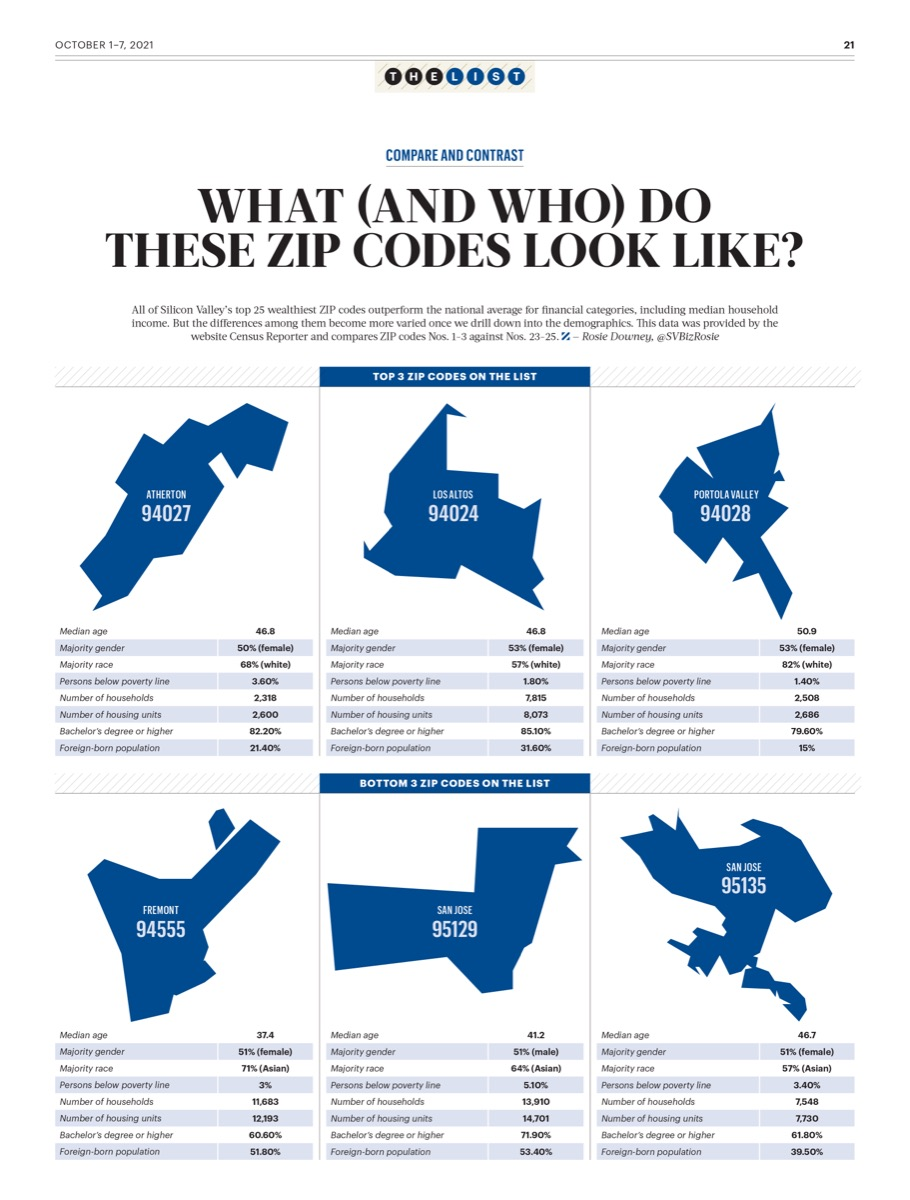
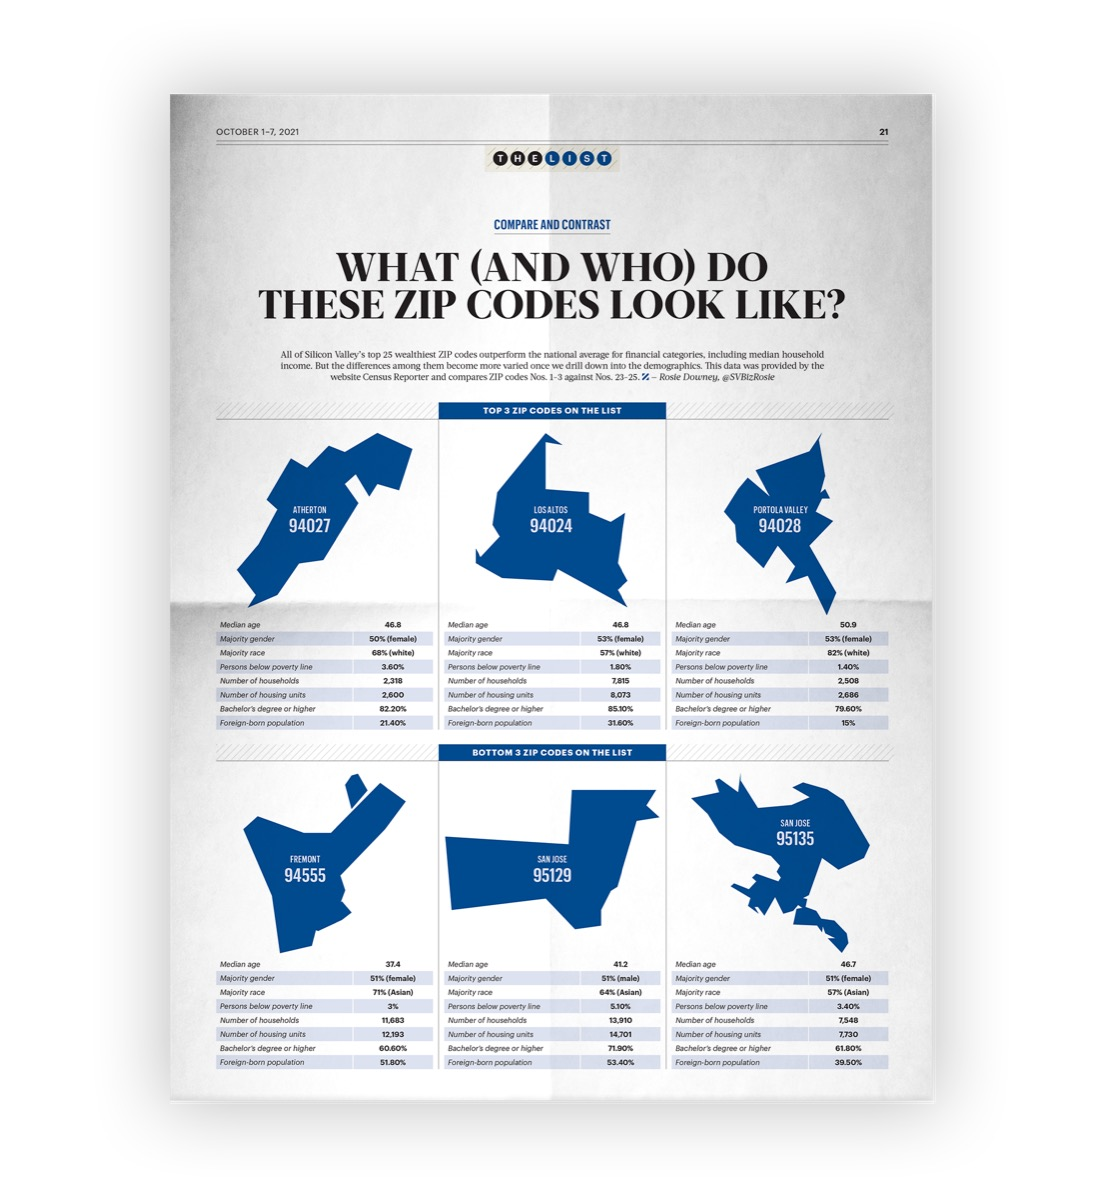
Zip-codes mockup replaces flat capture in data carousel; In print to 17; carousel renamed Data Visualization - Editorial

diff --git a/work/editorial.html b/work/editorial.html
@@ -131,38 +131,38 @@
     </div>
     <div class="car" data-carousel data-reveal>
       <div class="car__head">
-        <h2 class="meta">The weekly data page</h2>
+        <h2 class="meta">Data Visualization - Editorial</h2>
         <div class="car__meta">
           <span class="meta">18 pages, 2021</span>
           <div class="car__btns">
-            <button class="car__btn" type="button" data-car-prev aria-label="Scroll The weekly data page back">
+            <button class="car__btn" type="button" data-car-prev aria-label="Scroll Data Visualization - Editorial back">
               <svg viewBox="0 0 12 12" aria-hidden="true"><path d="M8 1 3 6l5 5" fill="none" stroke="currentColor" stroke-width="1.6"/></svg>
             </button>
-            <button class="car__btn" type="button" data-car-next aria-label="Scroll The weekly data page forward">
+            <button class="car__btn" type="button" data-car-next aria-label="Scroll Data Visualization - Editorial forward">
               <svg viewBox="0 0 12 12" aria-hidden="true"><path d="M4 1l5 5-5 5" fill="none" stroke="currentColor" stroke-width="1.6"/></svg>
             </button>
           </div>
         </div>
       </div>
-      <div class="car__track" tabindex="0" role="group" aria-label="The weekly data page, horizontally scrollable gallery">
-        <div class="car__item"><img src="../assets/img/work/editorial/c/dive-02.jpg?v=20260809f" alt="Sacramento Business Journal, Feb 2021. The weekly data page sample 1." loading="lazy" decoding="async"></div>
-        <div class="car__item"><img src="../assets/img/work/editorial/c/dive-03.jpg?v=20260809f" alt="Sacramento Business Journal, Mar 2021. The weekly data page sample 2." loading="lazy" decoding="async"></div>
-        <div class="car__item"><img src="../assets/img/work/editorial/c/dive-04.jpg?v=20260809f" alt="Sacramento Business Journal, Mar 2021. The weekly data page sample 3." loading="lazy" decoding="async"></div>
-        <div class="car__item"><img src="../assets/img/work/editorial/c/dive-05.jpg?v=20260809f" alt="Sacramento Business Journal, Mar 2021. The weekly data page sample 4." loading="lazy" decoding="async"></div>
-        <div class="car__item"><img src="../assets/img/work/editorial/c/dive-06.jpg?v=20260809f" alt="Sacramento Business Journal, Mar 2021. The weekly data page sample 5." loading="lazy" decoding="async"></div>
-        <div class="car__item"><img src="../assets/img/work/editorial/c/dive-07.jpg?v=20260809f" alt="Sacramento Business Journal, Mar 2021. The weekly data page sample 6." loading="lazy" decoding="async"></div>
-        <div class="car__item"><img src="../assets/img/work/editorial/c/dive-08.jpg?v=20260809f" alt="Sacramento Business Journal, Apr 2021. The weekly data page sample 7." loading="lazy" decoding="async"></div>
-        <div class="car__item"><img src="../assets/img/work/editorial/c/dive-09.jpg?v=20260809f" alt="Sacramento Business Journal, Apr 2021. The weekly data page sample 8." loading="lazy" decoding="async"></div>
-        <div class="car__item"><img src="../assets/img/work/editorial/c/dive-10.jpg?v=20260809f" alt="Sacramento Business Journal, Apr 2021. The weekly data page sample 9." loading="lazy" decoding="async"></div>
-        <div class="car__item"><img src="../assets/img/work/editorial/c/dive-11.jpg?v=20260809f" alt="Sacramento Business Journal, Apr 2021. The weekly data page sample 10." loading="lazy" decoding="async"></div>
-        <div class="car__item"><img src="../assets/img/work/editorial/c/dive-13.jpg?v=20260809f" alt="Sacramento Business Journal, May 2021. The weekly data page sample 11." loading="lazy" decoding="async"></div>
-        <div class="car__item"><img src="../assets/img/work/editorial/c/dive-14.jpg?v=20260809f" alt="Sacramento Business Journal, May 2021. The weekly data page sample 12." loading="lazy" decoding="async"></div>
-        <div class="car__item"><img src="../assets/img/work/editorial/c/dive-15.jpg?v=20260809f" alt="Sacramento Business Journal, May 2021. The weekly data page sample 13." loading="lazy" decoding="async"></div>
-        <div class="car__item"><img src="../assets/img/work/editorial/c/dive-16.jpg?v=20260809f" alt="Sacramento Business Journal, Jun 2021. The weekly data page sample 14." loading="lazy" decoding="async"></div>
-        <div class="car__item"><img src="../assets/img/work/editorial/c/dive-17.jpg?v=20260809f" alt="Sacramento Business Journal, Jun 2021. The weekly data page sample 15." loading="lazy" decoding="async"></div>
-        <div class="car__item"><img src="../assets/img/work/editorial/c/dive-18.jpg?v=20260809f" alt="Sacramento Business Journal, Jun 2021. The weekly data page sample 16." loading="lazy" decoding="async"></div>
-        <div class="car__item"><img src="../assets/img/work/editorial/c/dive-20.jpg?v=20260809g" alt="Silicon Valley Business Journal, Oct 2021. The weekly data page sample 17." loading="lazy" decoding="async"></div>
-        <div class="car__item"><img src="../assets/img/work/editorial/c/dive-19.jpg?v=20260809f" alt="Silicon Valley Business Journal, Dec 2021. The weekly data page sample 18." loading="lazy" decoding="async"></div>
+      <div class="car__track" tabindex="0" role="group" aria-label="Data Visualization - Editorial, horizontally scrollable gallery">
+        <div class="car__item"><img src="../assets/img/work/editorial/c/dive-02.jpg?v=20260809f" alt="Sacramento Business Journal, Feb 2021. Data Visualization - Editorial sample 1." loading="lazy" decoding="async"></div>
+        <div class="car__item"><img src="../assets/img/work/editorial/c/dive-03.jpg?v=20260809f" alt="Sacramento Business Journal, Mar 2021. Data Visualization - Editorial sample 2." loading="lazy" decoding="async"></div>
+        <div class="car__item"><img src="../assets/img/work/editorial/c/dive-04.jpg?v=20260809f" alt="Sacramento Business Journal, Mar 2021. Data Visualization - Editorial sample 3." loading="lazy" decoding="async"></div>
+        <div class="car__item"><img src="../assets/img/work/editorial/c/dive-05.jpg?v=20260809f" alt="Sacramento Business Journal, Mar 2021. Data Visualization - Editorial sample 4." loading="lazy" decoding="async"></div>
+        <div class="car__item"><img src="../assets/img/work/editorial/c/dive-06.jpg?v=20260809f" alt="Sacramento Business Journal, Mar 2021. Data Visualization - Editorial sample 5." loading="lazy" decoding="async"></div>
+        <div class="car__item"><img src="../assets/img/work/editorial/c/dive-07.jpg?v=20260809f" alt="Sacramento Business Journal, Mar 2021. Data Visualization - Editorial sample 6." loading="lazy" decoding="async"></div>
+        <div class="car__item"><img src="../assets/img/work/editorial/c/dive-08.jpg?v=20260809f" alt="Sacramento Business Journal, Apr 2021. Data Visualization - Editorial sample 7." loading="lazy" decoding="async"></div>
+        <div class="car__item"><img src="../assets/img/work/editorial/c/dive-09.jpg?v=20260809f" alt="Sacramento Business Journal, Apr 2021. Data Visualization - Editorial sample 8." loading="lazy" decoding="async"></div>
+        <div class="car__item"><img src="../assets/img/work/editorial/c/dive-10.jpg?v=20260809f" alt="Sacramento Business Journal, Apr 2021. Data Visualization - Editorial sample 9." loading="lazy" decoding="async"></div>
+        <div class="car__item"><img src="../assets/img/work/editorial/c/dive-11.jpg?v=20260809f" alt="Sacramento Business Journal, Apr 2021. Data Visualization - Editorial sample 10." loading="lazy" decoding="async"></div>
+        <div class="car__item"><img src="../assets/img/work/editorial/c/dive-13.jpg?v=20260809f" alt="Sacramento Business Journal, May 2021. Data Visualization - Editorial sample 11." loading="lazy" decoding="async"></div>
+        <div class="car__item"><img src="../assets/img/work/editorial/c/dive-14.jpg?v=20260809f" alt="Sacramento Business Journal, May 2021. Data Visualization - Editorial sample 12." loading="lazy" decoding="async"></div>
+        <div class="car__item"><img src="../assets/img/work/editorial/c/dive-15.jpg?v=20260809f" alt="Sacramento Business Journal, May 2021. Data Visualization - Editorial sample 13." loading="lazy" decoding="async"></div>
+        <div class="car__item"><img src="../assets/img/work/editorial/c/dive-16.jpg?v=20260809f" alt="Sacramento Business Journal, Jun 2021. Data Visualization - Editorial sample 14." loading="lazy" decoding="async"></div>
+        <div class="car__item"><img src="../assets/img/work/editorial/c/dive-17.jpg?v=20260809f" alt="Sacramento Business Journal, Jun 2021. Data Visualization - Editorial sample 15." loading="lazy" decoding="async"></div>
+        <div class="car__item"><img src="../assets/img/work/editorial/c/dive-18.jpg?v=20260809f" alt="Sacramento Business Journal, Jun 2021. Data Visualization - Editorial sample 16." loading="lazy" decoding="async"></div>
+        <div class="car__item"><img src="../assets/img/work/editorial/c/dive-20.jpg?v=20260809k" alt="Silicon Valley Business Journal, Oct 2021. Data Visualization - Editorial sample 17." loading="lazy" decoding="async"></div>
+        <div class="car__item"><img src="../assets/img/work/editorial/c/dive-19.jpg?v=20260809f" alt="Silicon Valley Business Journal, Dec 2021. Data Visualization - Editorial sample 18." loading="lazy" decoding="async"></div>
       </div>
     </div>
   </section>
@@ -275,7 +275,7 @@
       <div class="car__head">
         <h2 class="meta">In print</h2>
         <div class="car__meta">
-          <span class="meta">18 mockups</span>
+          <span class="meta">17 mockups</span>
           <div class="car__btns">
             <button class="car__btn" type="button" data-car-prev aria-label="Scroll In print back">
               <svg viewBox="0 0 12 12" aria-hidden="true"><path d="M8 1 3 6l5 5" fill="none" stroke="currentColor" stroke-width="1.6"/></svg>
@@ -293,18 +293,17 @@
         <div class="car__item"><img src="../assets/img/work/editorial/c/mockups-05.jpg?v=20260809f" alt="Print. In print sample 4." loading="lazy" decoding="async"></div>
         <div class="car__item"><img src="../assets/img/work/editorial/c/mockups-06.jpg?v=20260809f" alt="Print. In print sample 5." loading="lazy" decoding="async"></div>
         <div class="car__item"><img src="../assets/img/work/editorial/c/mockups-07.jpg?v=20260809f" alt="Print. In print sample 6." loading="lazy" decoding="async"></div>
-        <div class="car__item"><img src="../assets/img/work/editorial/c/mockups-08.jpg?v=20260809f" alt="Print. In print sample 7." loading="lazy" decoding="async"></div>
-        <div class="car__item"><img src="../assets/img/work/editorial/c/mockups-09.jpg?v=20260809f" alt="Print. In print sample 8." loading="lazy" decoding="async"></div>
-        <div class="car__item"><img src="../assets/img/work/editorial/c/mockups-10.jpg?v=20260809f" alt="Print. In print sample 9." loading="lazy" decoding="async"></div>
-        <div class="car__item"><img src="../assets/img/work/editorial/c/mockups-11.jpg?v=20260809f" alt="Print. In print sample 10." loading="lazy" decoding="async"></div>
-        <div class="car__item"><img src="../assets/img/work/editorial/c/mockups-12.jpg?v=20260809f" alt="Print. In print sample 11." loading="lazy" decoding="async"></div>
-        <div class="car__item"><img src="../assets/img/work/editorial/c/mockups-13.jpg?v=20260809f" alt="Print. In print sample 12." loading="lazy" decoding="async"></div>
-        <div class="car__item"><img src="../assets/img/work/editorial/c/mockups-14.jpg?v=20260809f" alt="Print. In print sample 13." loading="lazy" decoding="async"></div>
-        <div class="car__item"><img src="../assets/img/work/editorial/c/mockups-15.jpg?v=20260809f" alt="Print. In print sample 14." loading="lazy" decoding="async"></div>
-        <div class="car__item"><img src="../assets/img/work/editorial/c/mockups-16.jpg?v=20260809f" alt="Print. In print sample 15." loading="lazy" decoding="async"></div>
-        <div class="car__item"><img src="../assets/img/work/editorial/c/mockups-17.jpg?v=20260809f" alt="Print. In print sample 16." loading="lazy" decoding="async"></div>
-        <div class="car__item"><img src="../assets/img/work/editorial/c/mockups-18.jpg?v=20260809f" alt="Print. In print sample 17." loading="lazy" decoding="async"></div>
-        <div class="car__item"><img src="../assets/img/work/editorial/c/mockups-19.jpg?v=20260809f" alt="Print. In print sample 18." loading="lazy" decoding="async"></div>
+        <div class="car__item"><img src="../assets/img/work/editorial/c/mockups-09.jpg?v=20260809f" alt="Print. In print sample 7." loading="lazy" decoding="async"></div>
+        <div class="car__item"><img src="../assets/img/work/editorial/c/mockups-10.jpg?v=20260809f" alt="Print. In print sample 8." loading="lazy" decoding="async"></div>
+        <div class="car__item"><img src="../assets/img/work/editorial/c/mockups-11.jpg?v=20260809f" alt="Print. In print sample 9." loading="lazy" decoding="async"></div>
+        <div class="car__item"><img src="../assets/img/work/editorial/c/mockups-12.jpg?v=20260809f" alt="Print. In print sample 10." loading="lazy" decoding="async"></div>
+        <div class="car__item"><img src="../assets/img/work/editorial/c/mockups-13.jpg?v=20260809f" alt="Print. In print sample 11." loading="lazy" decoding="async"></div>
+        <div class="car__item"><img src="../assets/img/work/editorial/c/mockups-14.jpg?v=20260809f" alt="Print. In print sample 12." loading="lazy" decoding="async"></div>
+        <div class="car__item"><img src="../assets/img/work/editorial/c/mockups-15.jpg?v=20260809f" alt="Print. In print sample 13." loading="lazy" decoding="async"></div>
+        <div class="car__item"><img src="../assets/img/work/editorial/c/mockups-16.jpg?v=20260809f" alt="Print. In print sample 14." loading="lazy" decoding="async"></div>
+        <div class="car__item"><img src="../assets/img/work/editorial/c/mockups-17.jpg?v=20260809f" alt="Print. In print sample 15." loading="lazy" decoding="async"></div>
+        <div class="car__item"><img src="../assets/img/work/editorial/c/mockups-18.jpg?v=20260809f" alt="Print. In print sample 16." loading="lazy" decoding="async"></div>
+        <div class="car__item"><img src="../assets/img/work/editorial/c/mockups-19.jpg?v=20260809f" alt="Print. In print sample 17." loading="lazy" decoding="async"></div>
       </div>
     </div>
   </section>
